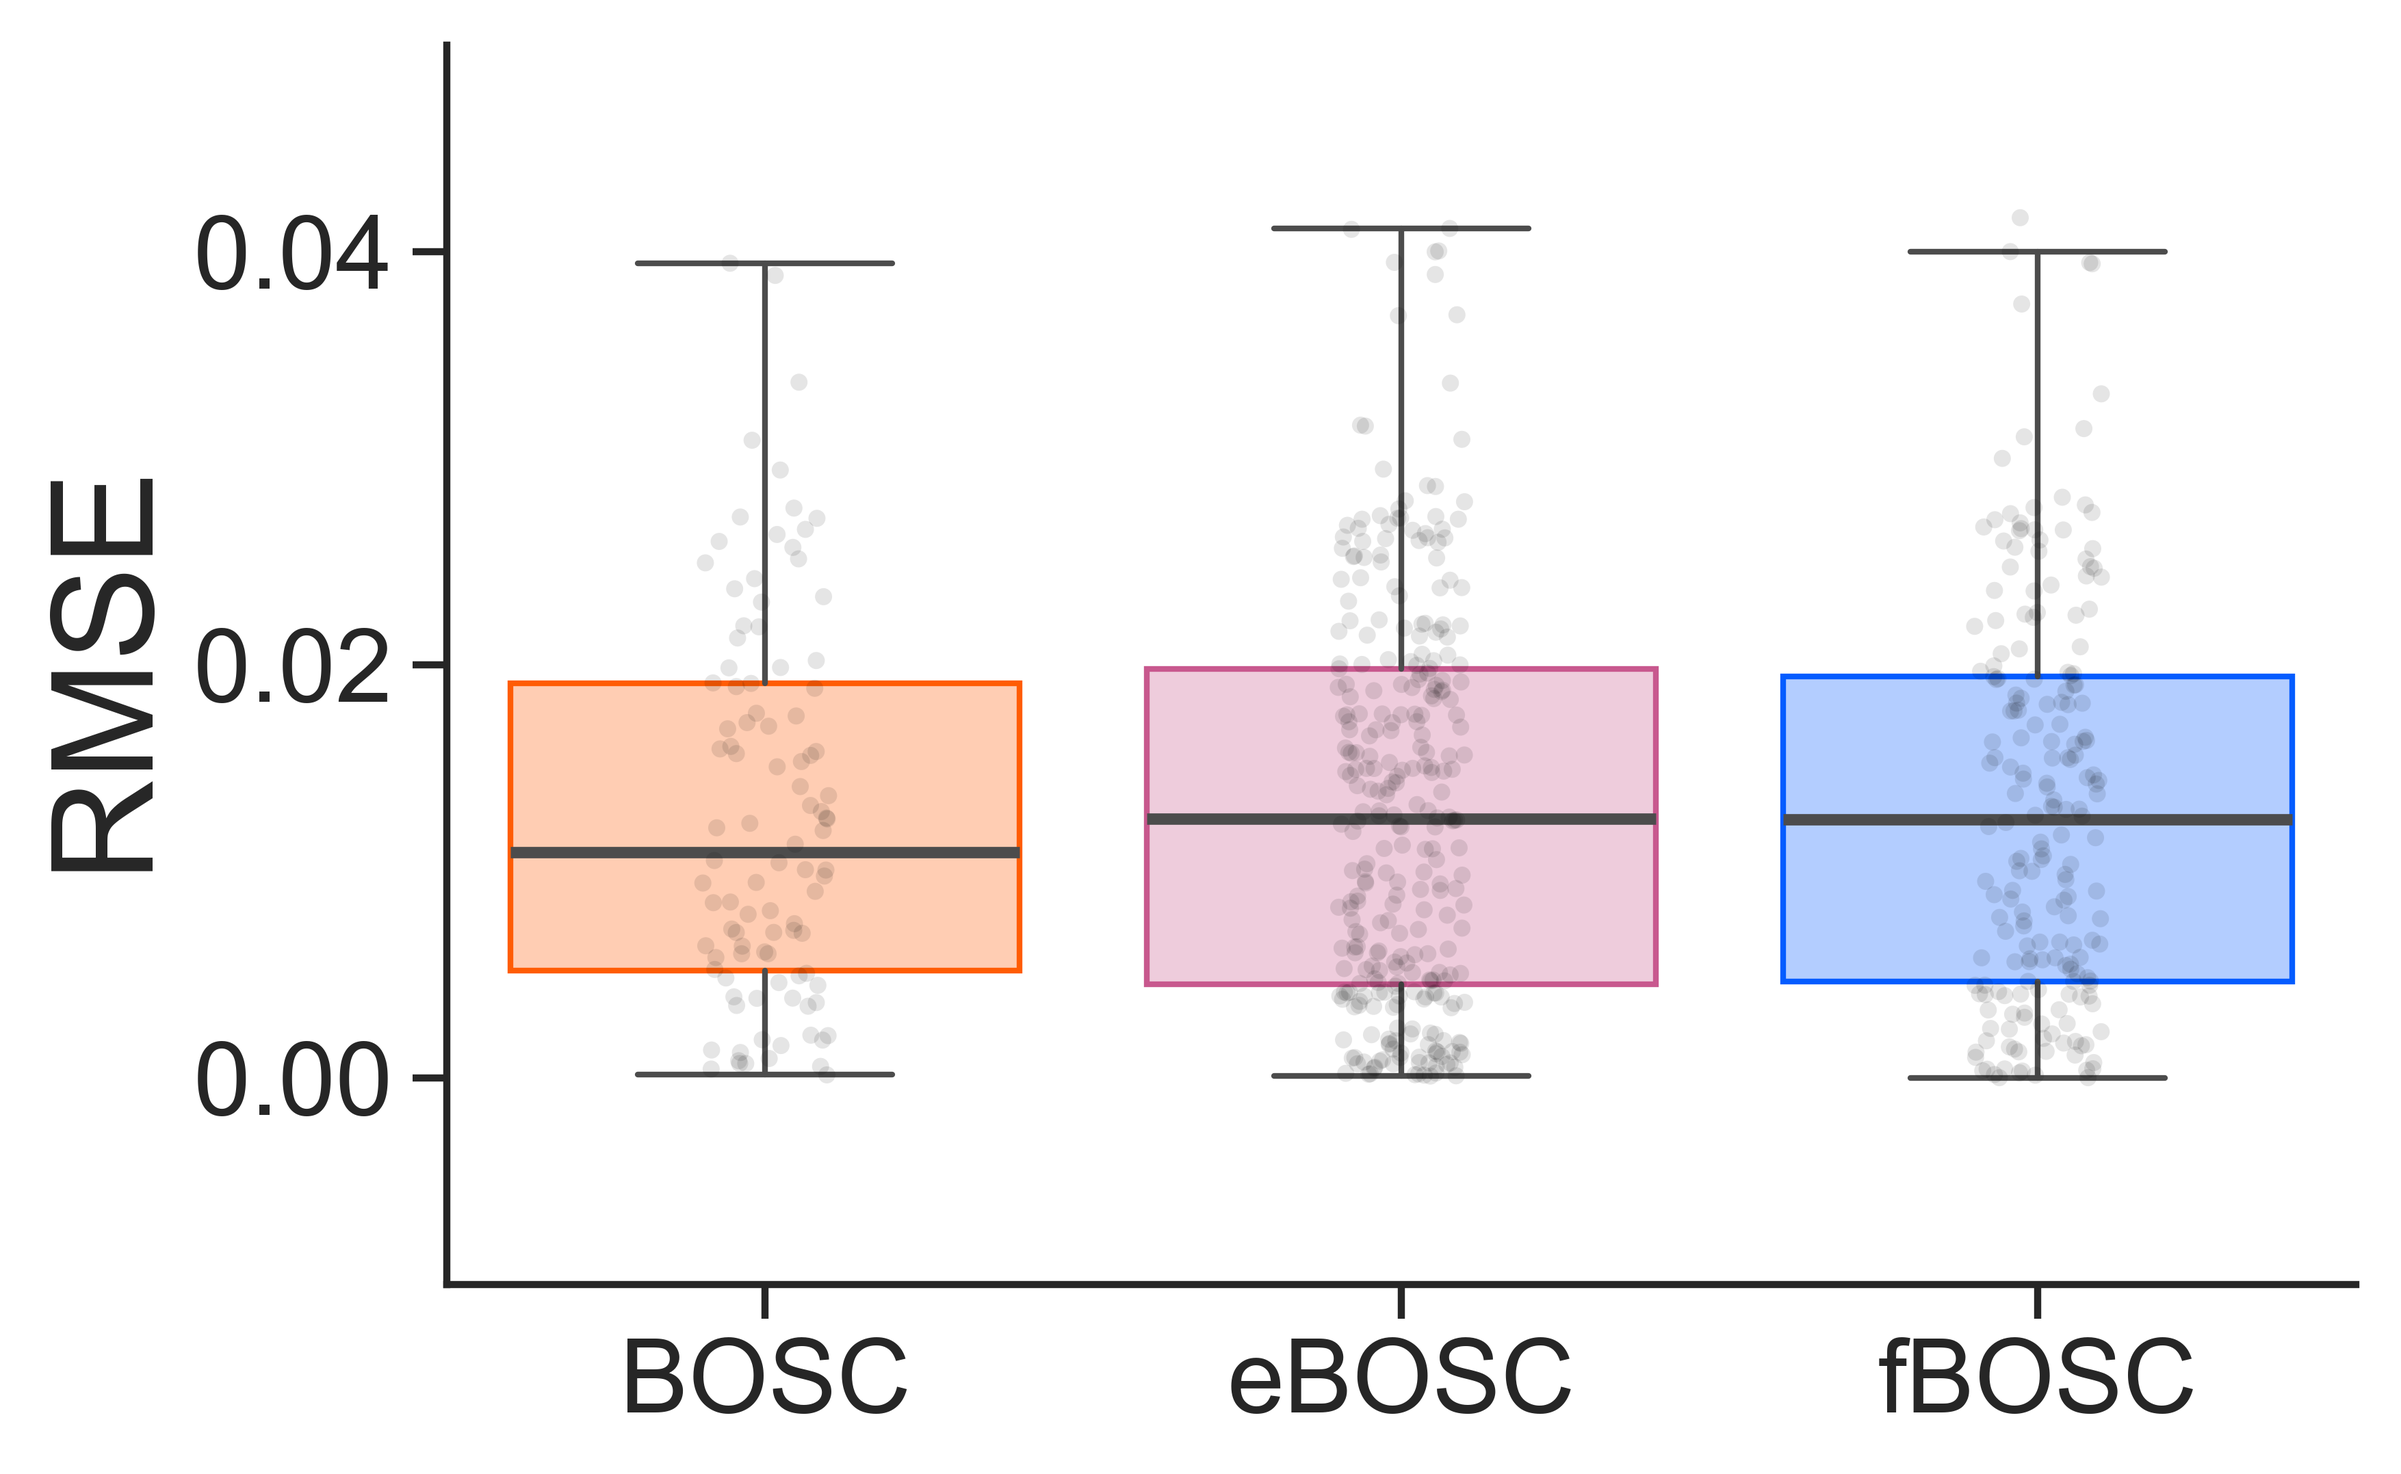
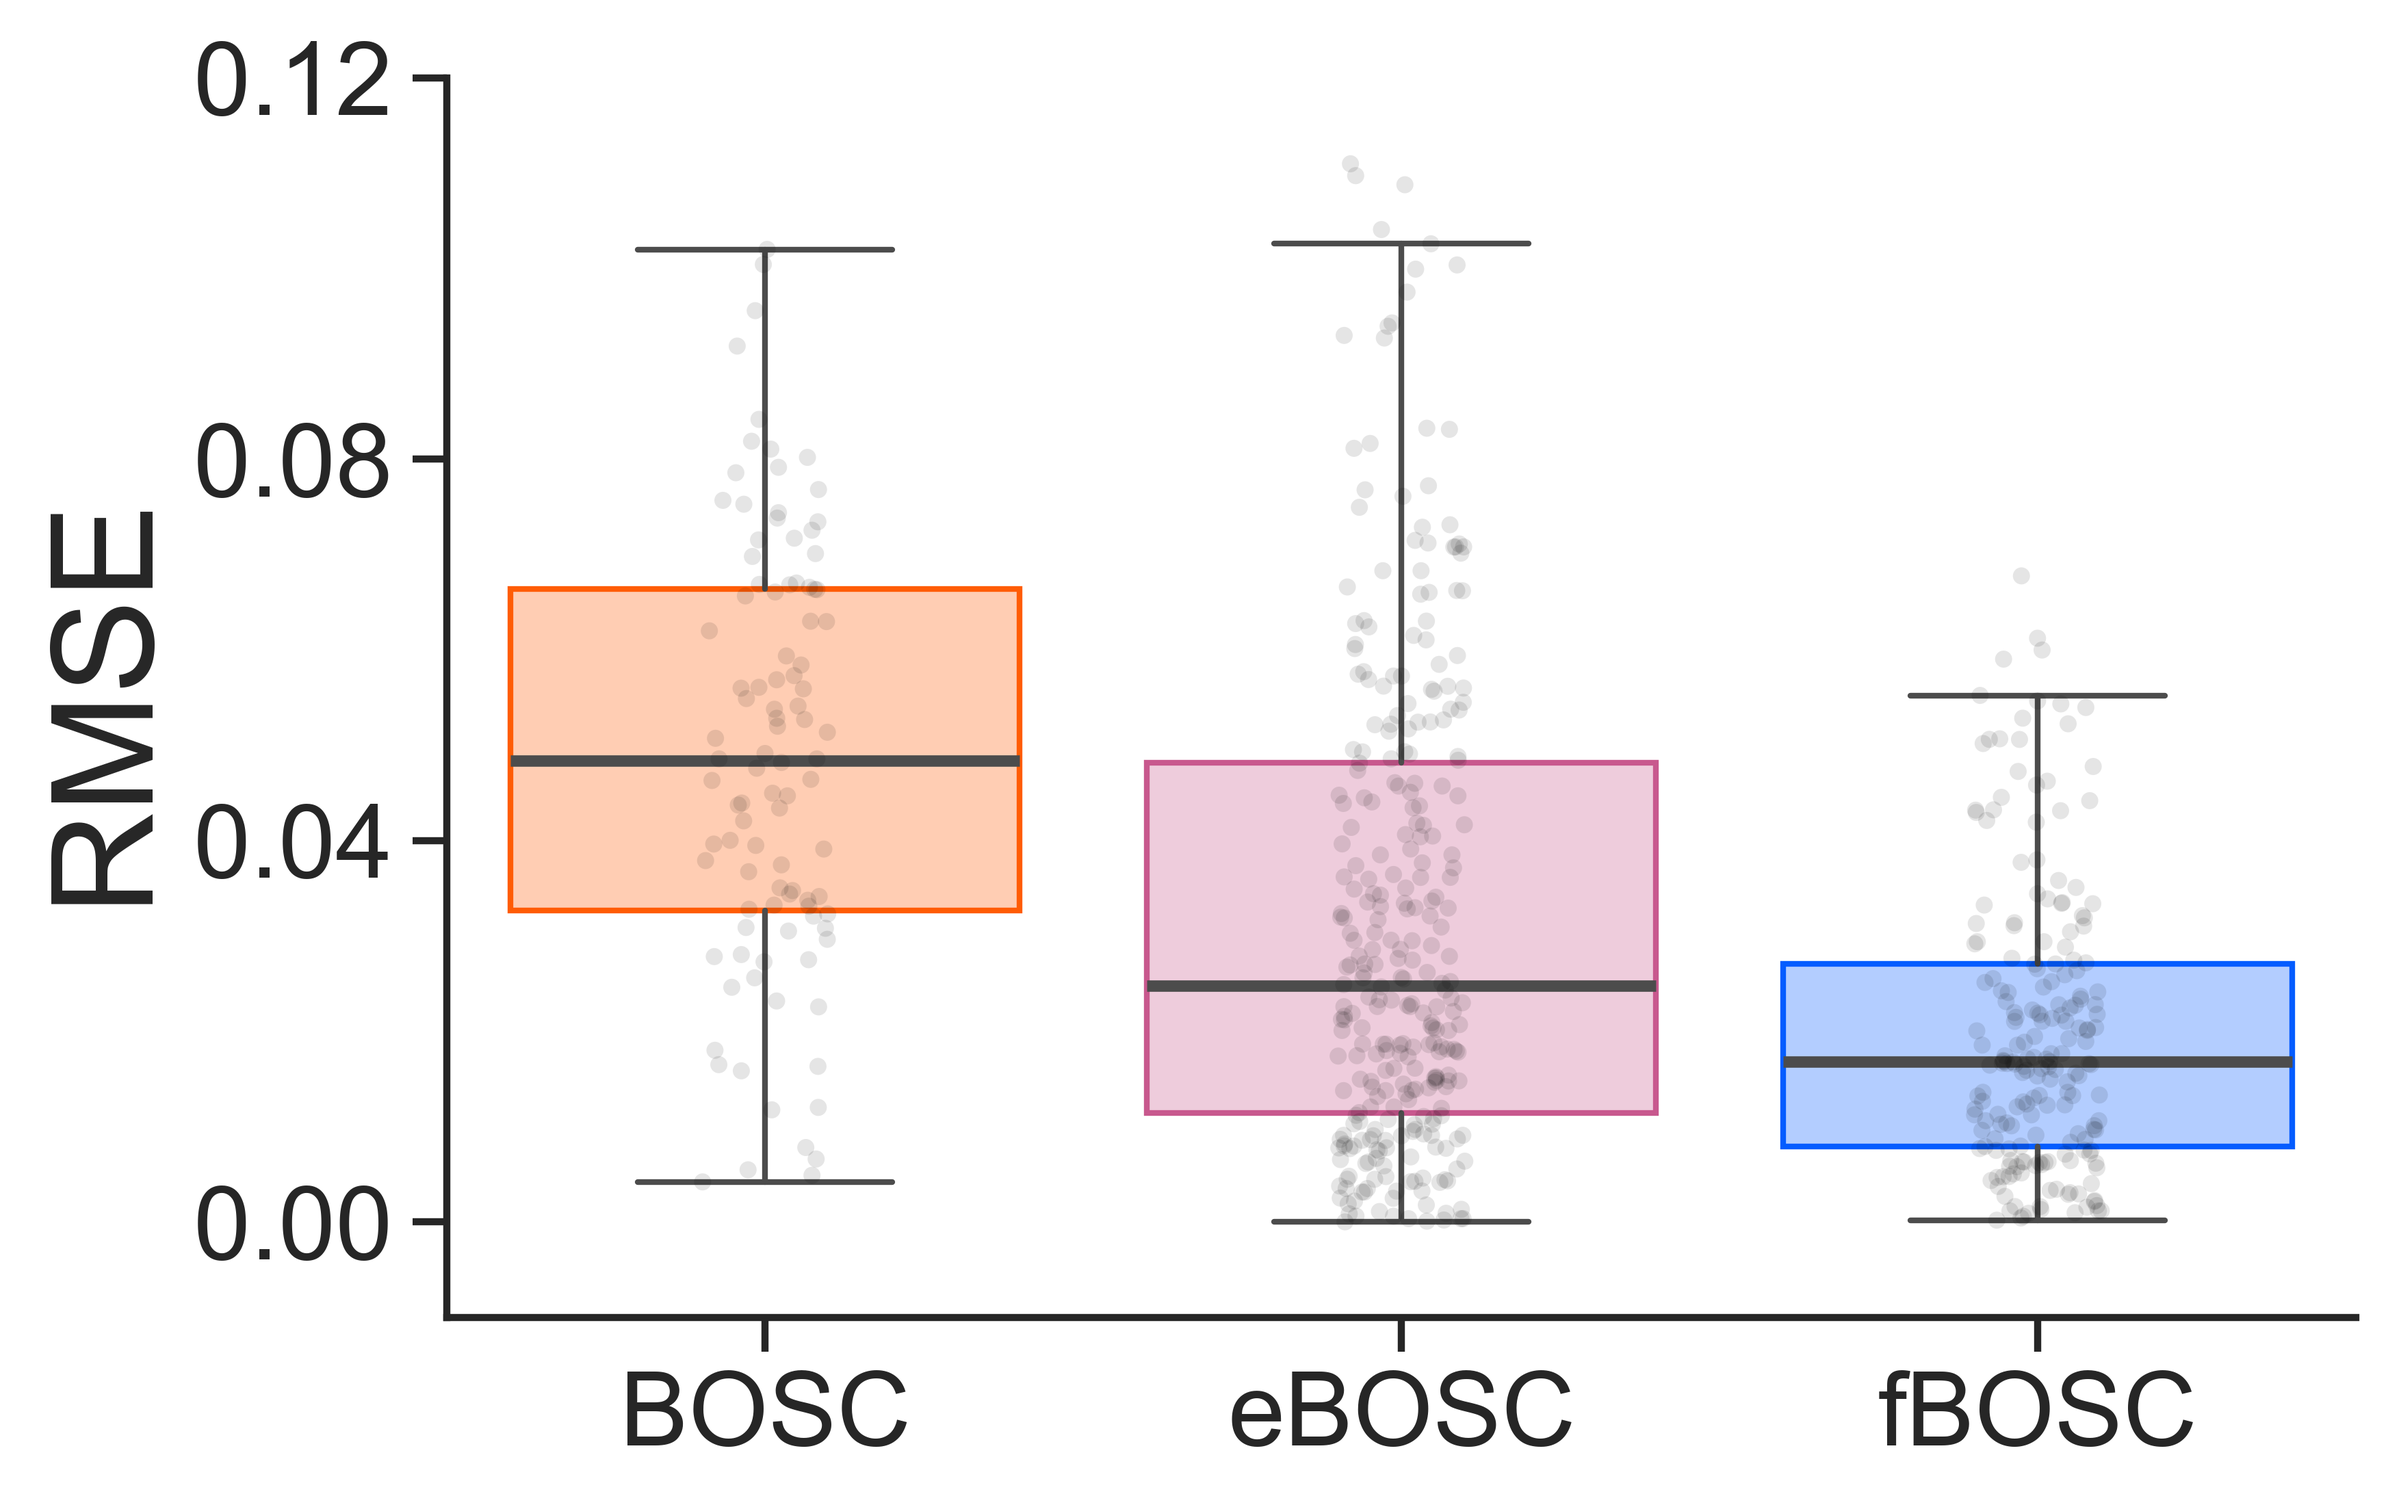
Use original BOSC implementation and not

diff --git a/validation/fig2.m b/validation/fig2.m
@@ -86,8 +86,8 @@ for c = 1:length(condition)
         
         % Set up BOSC, eBOSC and fBOSC parameters
         cfg                     = [];
-        %cfg.fBOSC.F             = 2.^[1:.125:5.4];    % frequency sampling
-        cfg.fBOSC.F             = [2:0.5:50];
+        cfg.fBOSC.F             = 2.^[1:.125:5.4];    % frequency sampling
+        %cfg.fBOSC.F             = [2:0.5:50];
         cfg.fBOSC.wavenumber	= 6;           % wavelet family parameter (time-frequency tradeoff)
         cfg.fBOSC.fsample       = Fs;         % current sampling frequency of EEG data
         
@@ -310,8 +310,8 @@ for c = 1:length(condition)
     %% fBOSC
     % Set up BOSC parameters
     cfg                     = [];
-    %cfg.fBOSC.F             = 2.^[1:.125:5.4];    % frequency sampling
-    cfg.fBOSC.F             = [2:0.5:50];
+    cfg.fBOSC.F             = 2.^[1:.125:5.4];    % frequency sampling
+    %cfg.fBOSC.F             = [2:0.5:50];
     cfg.fBOSC.wavenumber	= 6;           % wavelet family parameter (time-frequency tradeoff)
     cfg.fBOSC.fsample       = Fs;         % current sampling frequency of EEG data
     

diff --git a/README.md b/README.md
@@ -16,16 +16,12 @@ The duration threshold is usually set at 2-3 oscillatory cycles.
 
 In the time domain, if both power and duration thresholds are passed an oscillation is said to be "detected".
 
-### 2. FOOOF
-FOOOF is a fast, efficient, and physiologically-informed tool to parameterize neural power spectra.
+### 2. FOOOF (Donoghue et al., 2020)
 
-FOOOF conceives of a model of the power spectrum as a combination of two distinct functional processes:
+FOOOF is a fast, efficient, and physiologically-informed tool to parameterize neural power spectra. FOOOF conceives of a model of the power spectrum as a combination of two distinct functional processes:
 
 - An aperiodic component, reflecting 1/f like characteristics, with
-
 - A variable number of periodic components (putative oscillations), as peaks rising above the aperiodic component
-
-*(Text copied from the FOOOF documentation)*
 
 ![](./media/fooof_example.png)
 
@@ -35,13 +31,13 @@ In short, it provides more robust and flexible way of parametising the aperiodic
 
 As noted by Kosciessa et al., (2020), the standard BOSC analysis applies "a linear fit in log-log space to define the background power, which may overestimate the background at the frequencies of interest in the case of data with large rhythmic peaks." 
 
-The extended BOSC (eBOSC) toolbox allows the user to define peaks in the power spectrum, and these frequencies will not be used during the linear fit in log-log space.
+The extended BOSC (eBOSC) toolbox uses MATLAB's robustfit function and allows the user to define peaks in the power spectrum, and these frequencies will not be used during the linear fit in log-log space.
 
 **However two problems remain:**
 
 **1. Where multiple peaks exist in the power spectrum, the exclusion of many frequencies will lead to poor linear fits**
 
-**2. Both standard BOSC and eBOSC assume a single 1/f like characteristic to the aperiodic component, meaning it looks linear across all frequencies in log-log space. This is often not the case for neural data, especially across larger frequency ranges and MEG data. A linear fit in log-log space, is therefore not always suitable for electrophysiological data. See the [fooof documentation](https://fooof-tools.github.io/fooof/auto_tutorials/plot_05-AperiodicFitting.html) for more information.**
+**2. Both BOSC and eBOSC assume a single 1/f like characteristic to the aperiodic component, meaning it looks linear across all frequencies in log-log space. This is often not the case for neural data, especially across larger frequency ranges and MEG data. A linear fit in log-log space, is therefore not always suitable for electrophysiological data. See the [fooof documentation](https://fooof-tools.github.io/fooof/auto_tutorials/plot_05-AperiodicFitting.html) for more information.**
 
 ![](./media/example_no_fooof.png)
 
@@ -71,13 +67,17 @@ The RMSE is consistently lower for fBOSC compared with the other two methods in 
 
 ## What are the consequences of a poor 1/f fit?
 
-In the worst circumstances, at a particular fBOSC threshold (e.g. 0.95) your sensitivity for detecting oscillations will vary between different frequency bands.
+In the worst circumstances, at a particular fixed threshold used in the chi-squared function (e.g. 0.99) your sensitivity for detecting oscillations will vary between different frequency bands.
 
 **THIS IS NOT IDEAL.** 
 
-In our non-linear 1/f + alpha + theta oscillation simulations, we can get drastically different sensitivities for detecting theta and alpha oscillations for both BOSC and eBOSC. This effect is especially pronunced at lower SNRs. However fBOSC has very similar hit-rates between theta and alpha at all SNRs.
+In our non-linear 1/f simulations, we can get drastically different hit-rates for theta and alpha oscillations when using both BOSC and eBOSC. However fBOSC has very similar hit-rates between theta and alpha *at a given fixed threshold*.
 
-![](./media/fBOSC_per_freq.png)
+![](./media/HR_avg.png)
+
+This is the same for false alarm rate:
+
+![](./media/FA_avg.png)
 
 ## So how do I use fBOSC?
 
@@ -92,6 +92,8 @@ The [FOOOF documentation](https://fooof-tools.github.io/fooof/index.html#install
 Getting MATLAB and python to talk properly is tricker. Please refer to this [blog-post](https://irenevigueguix.wordpress.com/2020/03/25/loading-python-into-matlab/) if you are having issues. 
 
 *N.B. On my mac I had to rename /Applications/MATLAB_R2016b.app/sys/os/maci64/libgfortran.3.dylib to libgfortran.3.dylib.old to let Matlab search for the gcc gfortran*
+
+#### COMING SOON: A MATLAB implementation of FOOOF will be used instead of the Python one for ease of use
 
 #### 3. Start up fBOSC + run start_fBOSC
 
@@ -113,7 +115,7 @@ As you can see both the eBOSC and fooof_mat folders are present, along with the 
 If you use this code please cite the following:
 
 ```
-Donoghue, T., Haller, M., Peterson, E. J., Varma, P., Sebastian, P., Gao, R., ... & Voytek, B. (2020). Parameterizing neural power spectra into periodic and aperiodic components. Nature neuroscience, 23(12), 1655-1665.
+Donoghue, T., Haller, M., Peterson, E. J., Varma, P., Sebastian, P., Gao, R., ... & Voytek, B. (2020). Parameterizing neural power spectra into periodic and aperiodic components. Nature Neuroscience, 23(12), 1655-1665.
 ```
 
 ```
